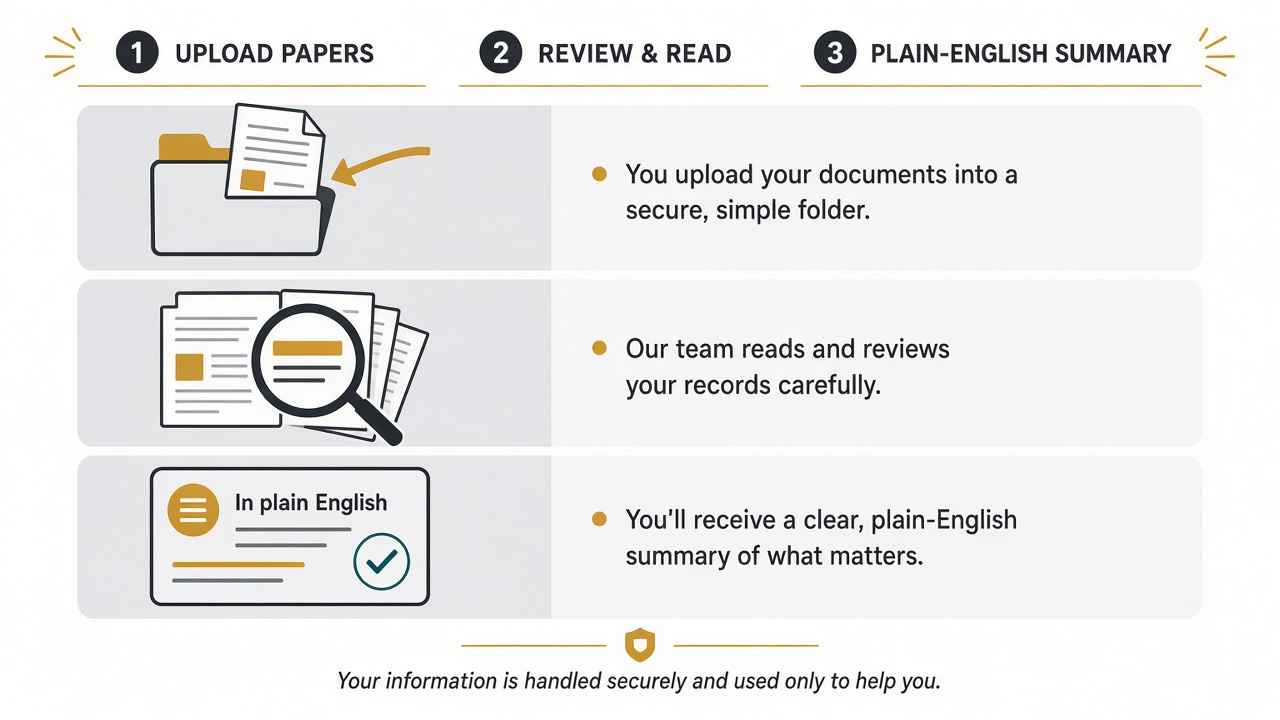
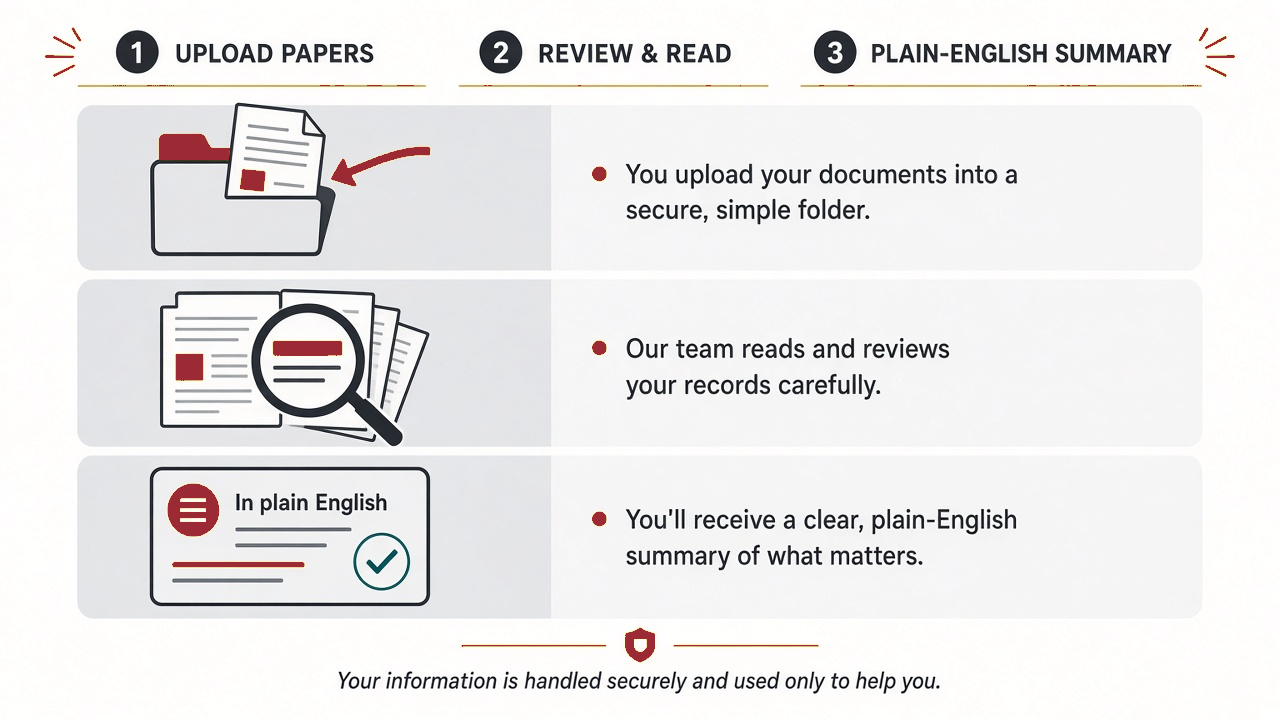
Process face remint: how-it-works + methods (L-PROCESS-FACE-REMINT) (#39)
* Process face remint: how-it-works + methods (L-PROCESS-FACE-REMINT)

Weave seniors DIY record review copy per A-PROC-1…9. Five desk steps,
Strong/Mixed/Thin strength, letters-out honesty chrome on Process pages.
No dollars on Process face; Pricing owns SKUs.

* Use quiet-list styling on methods bullet block

* Process face: scoreboard line without banned Progress jargon (A-PROC-8)

* Design look remint: Slate & Garnet tokens comment + steps hero PNG

Strip operator status labels from public CSS comments. Recolor
how-it-works steps illustration action pixels from Campaign gold
to garnet #9b2a35 / hover-adjacent #7f1f29. Offer copy unchanged.

---------

diff --git a/how-it-works.html b/how-it-works.html
@@ -4,20 +4,20 @@
   <meta charset="utf-8">
   <meta name="viewport" content="width=device-width, initial-scale=1">
   <title>How it works · Security in Social</title>
-  <meta name="description" content="Five steps to a plain-English medical record review. What the records show, what is missing, and what comes next.">
+  <meta name="description" content="DIY medical record review for Social Security in five calm steps. What the file shows, what is still missing, and a clear next step. No doctor letters sold here.">
   <meta name="theme-color" content="#f4f4f2">
   <link rel="canonical" href="https://securityinsocial.com/how-it-works">
   <meta property="og:type" content="website">
   <meta property="og:site_name" content="Security in Social">
   <meta property="og:url" content="https://securityinsocial.com/how-it-works">
-  <meta property="og:title" content="How it works · Security in Social">
-  <meta property="og:description" content="Five steps to a plain-English medical record review. What the records show, what is missing, and what comes next.">
+  <meta property="og:title" content="How DIY medical record review for Social Security works">
+  <meta property="og:description" content="Five calm steps from the records you have to a plain-English picture of what the file shows, what is still missing, and what to do next.">
   <meta property="og:image" content="https://securityinsocial.com/images/sis-og-share-1200x630.jpg">
   <meta property="og:image:width" content="1200">
   <meta property="og:image:height" content="630">
   <meta name="twitter:card" content="summary_large_image">
-  <meta name="twitter:title" content="How it works · Security in Social">
-  <meta name="twitter:description" content="Five steps to a plain-English medical record review. What the records show, what is missing, and what comes next.">
+  <meta name="twitter:title" content="How DIY medical record review for Social Security works">
+  <meta name="twitter:description" content="Five calm steps from the records you have to a plain-English picture of what the file shows, what is still missing, and what to do next.">
   <meta name="twitter:image" content="https://securityinsocial.com/images/sis-og-share-1200x630.jpg">
   <link rel="icon" href="favicon.svg" type="image/svg+xml">
   <link rel="stylesheet" href="css/tokens-slate-garnet.css">
@@ -51,8 +51,8 @@
       <div class="hero-grid">
         <div class="hero-copy">
           <p class="kicker">How it works</p>
-          <h1>Every step, out in the open.</h1>
-          <p class="lede">Here is the path we walk with you. Five steps from the records you have to a plain-English picture of what they show, what is missing, and what comes next.</p>
+          <h1>How DIY medical record review for Social Security works</h1>
+          <p class="lede">You send the medical records you already have. We walk five calm steps so you can see what the file shows, what is still missing, and a clear next step. We do not sell doctor letters. We do not promise approval.</p>
           <div class="actions">
             <a class="btn btn-primary" href="/contact#review">Start a record review</a>
             <a class="btn btn-ghost" href="/pricing">See pricing</a>
@@ -68,54 +68,54 @@
       <div class="step">
         <div class="num" aria-hidden="true">01</div>
         <div>
-          <h3>Tell us where you are</h3>
-          <p>Where you are in the Social Security process.</p>
+          <h3>Upload what you have</h3>
+          <p>Send the dated medical records you can find. Visit notes, imaging, therapy notes, medication lists when they exist.</p>
         </div>
       </div>
       <div class="step">
         <div class="num" aria-hidden="true">02</div>
         <div>
-          <h3>Share the records you have</h3>
-          <p>Visit notes, imaging, therapy notes, medication lists when they exist.</p>
+          <h3>We inventory the file</h3>
+          <p>Specialists list what arrived: which providers, which dates, which papers are in the stack.</p>
         </div>
       </div>
       <div class="step">
         <div class="num" aria-hidden="true">03</div>
         <div>
-          <h3>Specialists assemble the file</h3>
-          <p>Records specialists assemble what is in the file and explain it in everyday words.</p>
+          <h3>Plain-English glance</h3>
+          <p>You get a calm read of what the file shows, in words you can follow at the kitchen table.</p>
         </div>
       </div>
       <div class="step">
         <div class="num" aria-hidden="true">04</div>
         <div>
-          <h3>You get clarity</h3>
-          <p>What the records show, what is missing, and a next step.</p>
+          <h3>Gaps (what is missing)</h3>
+          <p>We name which papers are missing or too thin to answer the questions Social Security will ask. Everyday words only.</p>
         </div>
       </div>
       <div class="step">
         <div class="num" aria-hidden="true">05</div>
         <div>
-          <h3>If the file is thin, we say so</h3>
-          <p>Honesty first. We never invent a diagnosis.</p>
+          <h3>Packet-ready next step</h3>
+          <p>You leave knowing Strong, Mixed, or Thin for this stack, and what to do next. This is not a doctor letter.</p>
         </div>
       </div>
     </div>
 
     <div class="grid-2">
       <div class="card">
-        <h3>What you get</h3>
-        <p>Records specialists assemble a plain-English picture of the file. A list of what is still missing. A next step you can follow, including an honest no.</p>
+        <h3>File strength</h3>
+        <p>When we name strength, we use Strong, Mixed, or Thin only. We never quote approval odds.</p>
       </div>
       <div class="card">
         <h3>What we do not do</h3>
-        <p>Guarantee approval or a faster decision. Charge a percent of benefits. Sell doctor letters. File the Social Security claim for you.</p>
+        <p>Guarantee approval. Charge a percent of benefits. Sell doctor letters. File the Social Security claim for you. Ask a doctor to sign this DIY review.</p>
       </div>
     </div>
 
     <section class="section">
       <h2>Ready to start?</h2>
-      <p>Bring the records you have. We will walk the next step with you.</p>
+      <p>Bring the records you have. We will take the next step with you.</p>
       <div class="actions">
         <a class="btn btn-primary" href="/contact#review">Start a record review</a>
         <a class="btn btn-ghost" href="/pricing">See pricing</a>
@@ -130,7 +130,7 @@
           <img class="foot-lockup" src="images/brand/sis-lockup-horizontal-reversed.svg" width="220" height="29" alt="Security in Social">
         </a>
         <h2 class="sr-only">Security in Social</h2>
-        <p>You get a calm, plain-English read of your records. Specialists say what the records show, what is missing, and when the file is not ready.</p>
+        <p>Specialists say what the file shows, what is still missing, and when the file is not enough.</p>
       </div>
       <div>
         <h2>Explore</h2>
@@ -161,7 +161,7 @@
       </div>
     </div>
     <div class="site-foot-bottom">
-      <p><a class="when-no" href="/clinical-gate"><strong>When we say no.</strong></a> We never invent a diagnosis. No outcome guarantees.</p>
+      <p><a class="when-no" href="/clinical-gate"><strong>When we say no.</strong></a> If the records are not enough, we say so. We do not invent diagnoses. We do not promise approval. Letters are not sold here.</p>
     </div>
   </footer>
   <script src="js/site.js"></script>

diff --git a/methods.html b/methods.html
@@ -4,20 +4,20 @@
   <meta charset="utf-8">
   <meta name="viewport" content="width=device-width, initial-scale=1">
   <title>How we build · Security in Social</title>
-  <meta name="description" content="We choose the next step the way a careful company should. Medical record review for Social Security disability. We do not sell letters here.">
+  <meta name="description" content="How we build DIY medical record review for Social Security. Clarity on the file, not a sales speech. Letters are not for sale here.">
   <meta name="theme-color" content="#f4f4f2">
   <link rel="canonical" href="https://securityinsocial.com/methods">
   <meta property="og:type" content="website">
   <meta property="og:site_name" content="Security in Social">
   <meta property="og:url" content="https://securityinsocial.com/methods">
-  <meta property="og:title" content="How we build · Security in Social">
-  <meta property="og:description" content="We are people helping people through Social Security paperwork. One clear front door.">
+  <meta property="og:title" content="How we build DIY medical record review for Social Security">
+  <meta property="og:description" content="We help seniors and families understand a medical file before they apply. One front door: Start a record review.">
   <meta property="og:image" content="https://securityinsocial.com/images/sis-og-share-1200x630.jpg">
   <meta property="og:image:width" content="1200">
   <meta property="og:image:height" content="630">
   <meta name="twitter:card" content="summary_large_image">
-  <meta name="twitter:title" content="How we build · Security in Social">
-  <meta name="twitter:description" content="We are people helping people through Social Security paperwork. One clear front door.">
+  <meta name="twitter:title" content="How we build DIY medical record review for Social Security">
+  <meta name="twitter:description" content="We help seniors and families understand a medical file before they apply. One front door: Start a record review.">
   <meta name="twitter:image" content="https://securityinsocial.com/images/sis-og-share-1200x630.jpg">
   <link rel="icon" href="favicon.svg" type="image/svg+xml">
   <link rel="stylesheet" href="css/tokens-slate-garnet.css">
@@ -48,35 +48,23 @@
   <main id="main" class="stage">
     <section class="page-hero">
       <p class="kicker">How we build</p>
-      <h1>We choose the next step the way a careful company should.</h1>
-      <p class="lede">We help people through Social Security paperwork. Before we ask you to share or buy, we write down what success looks like: you understand your file, you know what is missing, you know the next step. One clear front door so you are never bounced around.</p>
+      <h1>How we build DIY medical record review for Social Security</h1>
+      <p class="lede">We help seniors and families understand a medical file before they apply. Success means you know what the file shows, what is still missing, and a clear next step. One front door: Start a record review.</p>
       <div class="actions">
         <a class="btn btn-primary" href="/contact#review">Start a record review</a>
+        <a class="btn btn-ghost" href="/how-it-works">See how it works</a>
         <a class="btn btn-ghost" href="/pricing">See pricing</a>
       </div>
     </section>
 
     <section class="section">
-      <p class="kicker">In plain words</p>
-      <h2>We name the win first.</h2>
-      <p>You understand your file. You know what is missing. You know the next step.</p>
-      <div class="card" style="margin-top:16px">
-        <p>We write ideas down and score how much they help before we spend. We name the win first: clarity on the file, not a sales speech. For firms, growth looks like share, try, thank, and show the clarity, never fake outcomes. Questions get a human answer. We do not pretend to be you. One main button: Start a record review.</p>
-      </div>
-    </section>
-
-    <aside class="soft-band">
-      <h2><a href="/pricing">See pricing</a> for the lifetime review and the companion app.</h2>
-      <p>Prices stay simple. We do not sell letters here.</p>
-    </aside>
-
-    <section class="section" style="margin-top:20px">
-      <h2>Start in one place.</h2>
-      <p>Whether you want the lifetime record review or the yearly app, begin here. One clear next step.</p>
-      <div class="actions">
-        <a class="btn btn-primary" href="/contact#review">Start a record review</a>
-        <a class="btn btn-ghost" href="/pricing">See pricing</a>
-      </div>
+      <p class="kicker">On this page, in plain words</p>
+      <ul class="quiet-list">
+        <li>We write the win first: clarity on the file, not a sales speech.</li>
+        <li>Specialists assemble and explain. No doctor signs this DIY review.</li>
+        <li>Letters are not for sale here.</li>
+        <li>We do not show a percent scoreboard on this product face.</li>
+      </ul>
     </section>
   </main>
 
@@ -87,7 +75,7 @@
           <img class="foot-lockup" src="images/brand/sis-lockup-horizontal-reversed.svg" width="220" height="29" alt="Security in Social">
         </a>
         <h2 class="sr-only">Security in Social</h2>
-        <p>You get a calm, plain-English read of your records. Specialists say what the file shows, what is still missing, and when the file is not enough.</p>
+        <p>Specialists say what the file shows, what is still missing, and when the file is not enough.</p>
       </div>
       <div>
         <h2>Explore</h2>
@@ -118,7 +106,7 @@
       </div>
     </div>
     <div class="site-foot-bottom">
-      <p><a class="when-no" href="/clinical-gate"><strong>When we say no.</strong></a> We never invent a diagnosis. No outcome guarantees.</p>
+      <p><a class="when-no" href="/clinical-gate"><strong>When we say no.</strong></a> If the records are not enough, we say so. We do not invent diagnoses. We do not promise approval. Letters are not sold here.</p>
     </div>
   </footer>
   <script src="js/site.js"></script>

diff --git a/css/site-chrome-slate-garnet.css b/css/site-chrome-slate-garnet.css
@@ -2,7 +2,7 @@
    Cool stone surface · slate ink · one garnet primary per region
    Header SVG lockup · 56px CTA (48px header) · band footer
    Live locks: 6-item nav · Start a record review · Letters OUT
-   Soft CLEAR · 2026-09-18 */
+   2026-09-18 */
 
 *,
 *::before,

diff --git a/css/tokens-slate-garnet.css b/css/tokens-slate-garnet.css
@@ -36,7 +36,7 @@
 }
 
 :root {
-  /* Design Soft CLEAR Ready tokens */
+  /* Slate & Garnet tokens */
   --surface: #f4f4f2;
   --surface-2: #e9eae6;
   --panel: #ffffff;
